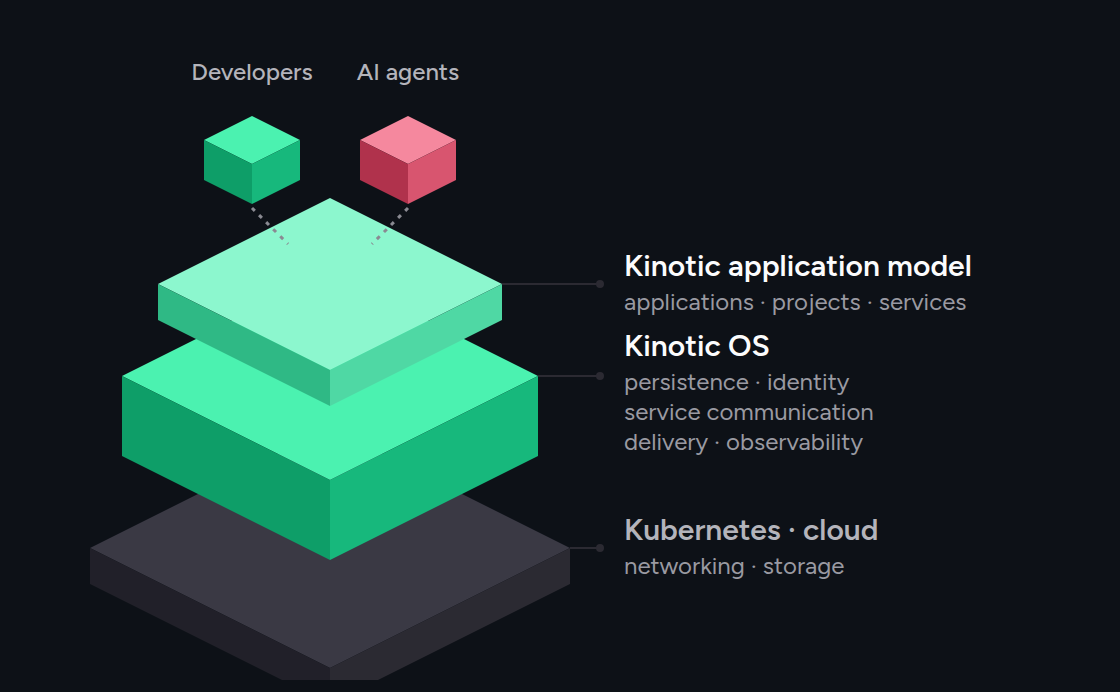
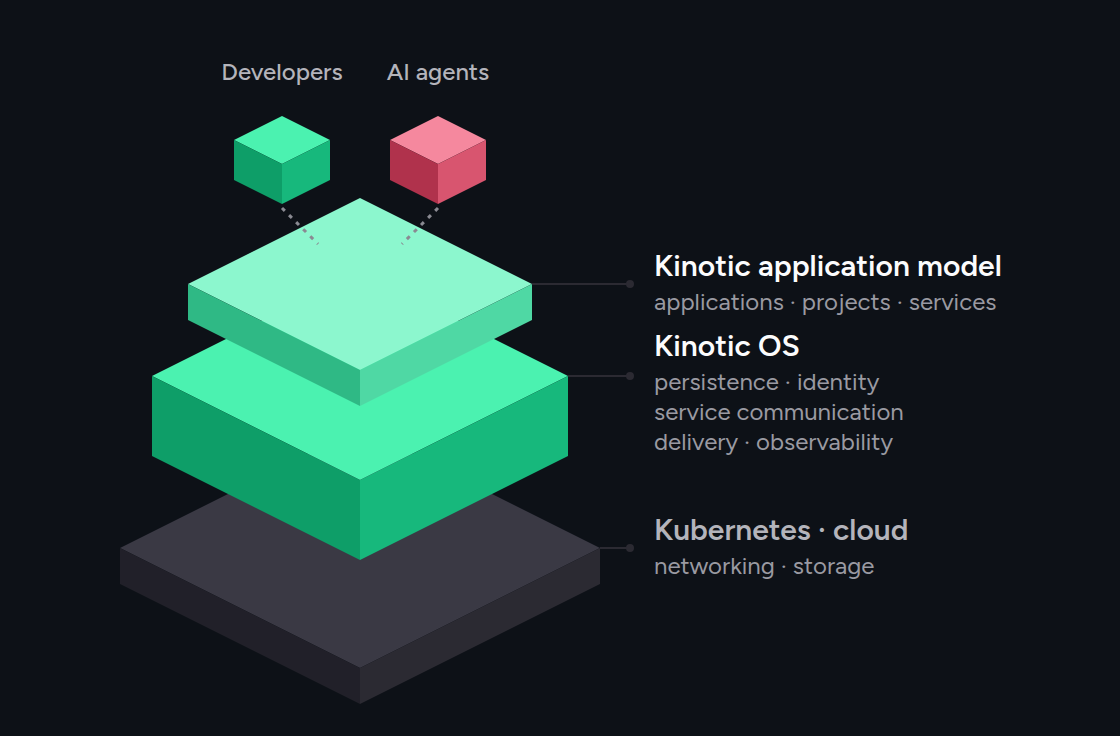
The abstraction layer's ground slab was cropped by its own viewBox
Its bottom vertex sits at y=360 in user units while the wide variant's viewBox
ended at 348, so twelve pixels of the slab were cut. An svg clips to its own
viewport, so the page still measured 322px tall and the DOM height check that
sizes every diagram could not see it.

`render.js` now compares each svg's `getBBox()` against its `viewBox` before
screenshotting and refuses to render when geometry falls outside. Verified by
shrinking a viewBox and watching it fail. It is the only check that can catch
this, and it belongs next to the render rather than in a file of its own.

Both stacks now carry 10px of clearance around the drawing, and all four
svg-based diagrams have their geometry centred in the canvas — the slack was
sitting on one side (the wide stack had 45px left against 74px right), so a
centred image read as shifted left.

Claude-Session: https://claude.ai/code/session_01EvoZVi9sNowJbKd7zzzNvL

Changed region(s): [[0.0625, 0.1517, 0.9062, 1.0], [0.1562, 0.091, 0.4375, 0.1214]]

diff --git a/.github/assets/diagrams/render.js b/.github/assets/diagrams/render.js
@@ -50,6 +50,26 @@ async function main() {
     await send('Emulation.setDeviceMetricsOverride',
       { width: job.w, height: job.h, deviceScaleFactor: 1, mobile: false });
     await sleep(900);
+    // An svg clips to its viewport, so geometry outside the viewBox is cropped at full
+    // declared height and no DOM measurement can see it. Compare the two directly.
+    const clipped = await send('Runtime.evaluate', {
+      returnByValue: true,
+      expression: `[...document.querySelectorAll('svg[viewBox]')]
+        .filter(s => s.getAttribute('aria-hidden') !== 'true')
+        .flatMap(s => {
+          const vb = s.getAttribute('viewBox').split(/\\s+/).map(Number);
+          const b = s.getBBox();
+          return Object.entries({
+            top: vb[1] - b.y,
+            bottom: (b.y + b.height) - (vb[1] + vb[3]),
+            left: vb[0] - b.x,
+            right: (b.x + b.width) - (vb[0] + vb[2]),
+          }).filter(([, v]) => v > 0.5).map(([k, v]) => k + ' by ' + Math.round(v) + 'px');
+        }).join(', ')`,
+    });
+    if (clipped.result.value) {
+      throw new Error(`${job.html}: geometry outside the viewBox — ${clipped.result.value}`);
+    }
     const shot = await send('Page.captureScreenshot', {
       format: 'png',
       captureBeyondViewport: true,

diff --git a/.github/assets/diagrams/diagrams.py b/.github/assets/diagrams/diagrams.py
@@ -75,7 +75,7 @@ def abstraction_layer(t):
         f'<path d="M {x} {y} L 232 {y}" stroke="{t["line"]}" stroke-width="1"/>'
         f'<circle cx="232" cy="{y}" r="2" fill="{t["line"]}"/>'
         for x, y in ((184, 135), (199, 175), (212, 250)))
-    svg = (f'<svg width="440" height="292" viewBox="0 30 440 292" role="img" '
+    svg = (f'<svg width="440" height="302" viewBox="-5 23 440 302" role="img" '
            f'aria-label="Developers and AI agents work through the Kinotic application model, '
            f'which sits on Kinotic OS, which sits on Kubernetes, cloud, networking and storage">'
            f'{leaders}{g}{feed}'
@@ -90,7 +90,7 @@ def abstraction_layer(t):
            f'<text x="244" y="246" class="t-name-dim">Kubernetes · cloud</text>'
            f'<text x="244" y="263" class="t-sub">networking · storage</text>'
            f'</svg>')
-    return f'<div class="d" style="width:440px;height:316px">{svg}</div>'
+    return f'<div class="d" style="width:440px;height:326px">{svg}</div>'
 
 # ---------------------------------------------------------------- diagram 2
 
@@ -126,7 +126,7 @@ def environments(t):
             f'<path d="M 30 138 L 30 256" stroke="{t["rail"]}" stroke-width="1.5"/>'
             f'<path d="M 30 264 l -3.5 -8 h 7 z" fill="{t["rail"]}"/>')
     promote = ''.join(f'<text x="64" y="{y}" class="t-cap-up">promote</text>' for y in (180, 236))
-    svg = (f'<svg width="300" height="280" viewBox="0 8 300 280" role="img" '
+    svg = (f'<svg width="300" height="280" viewBox="-37 8 300 280" role="img" '
            f'aria-label="A feature branch gets an isolated environment that is built and tested, '
            f'then promoted through development, staging and production">'
            f'{line}{ring(24)}{ring(76)}{cubes}'
@@ -212,7 +212,7 @@ def w_abstraction_layer(t):
         f'<path d="M {x} {y} L 300 {y}" stroke="{t["line"]}" stroke-width="1"/>'
         f'<circle cx="300" cy="{y}" r="2" fill="{t["line"]}"/>'
         for x, y in ((251, 150), (269, 196), (285, 282)))
-    svg = (f'<svg width="560" height="322" viewBox="0 26 560 322" role="img" '
+    svg = (f'<svg width="560" height="344" viewBox="-15 26 560 344" role="img" '
            f'aria-label="Developers and AI agents work through the Kinotic application model, '
            f'which sits on Kinotic OS, which sits on Kubernetes, cloud, networking and storage">'
            f'{leaders}{g}{feed}'
@@ -227,7 +227,7 @@ def w_abstraction_layer(t):
            f'<text x="312" y="278" class="t-name-dim">Kubernetes · cloud</text>'
            f'<text x="312" y="295" class="t-sub">networking · storage</text>'
            f'</svg>')
-    return f'<div class="d" style="width:560px;height:346px">{svg}</div>'
+    return f'<div class="d" style="width:560px;height:368px">{svg}</div>'
 
 
 def w_core_concepts(t):
@@ -258,7 +258,7 @@ def w_environments(t):
     drop = (f'<path d="M 232 4 C 232 70 150 64 150 122" fill="none" stroke="{t["mintEdge"]}" '
             f'stroke-width="1.5" stroke-dasharray="4 4"/>'
             f'<path d="M 150 131 l -4 -8 h 8 z" fill="{t["mintEdge"]}"/>')
-    svg = (f'<svg width="620" height="214" viewBox="0 0 620 214" role="img" '
+    svg = (f'<svg width="620" height="214" viewBox="29 0 620 214" role="img" '
            f'aria-label="A feature branch gets an isolated environment that is built and tested, '
            f'then promoted through development, staging and production">'
            f'{drop}{rail}{cubes}{names}{promote}</svg>')
@@ -432,7 +432,7 @@ border-radius:8px;padding:8px 12px;background:{t['chip']};width:100%;text-align:
 # key, title, narrow (fn, w, h), wide (fn, w, h)
 SPECS = [
     ('abstraction-layer', 'A different abstraction layer',
-     (abstraction_layer, 440, 316), (w_abstraction_layer, 560, 346)),
+     (abstraction_layer, 440, 326), (w_abstraction_layer, 560, 368)),
     ('core-concepts', 'Core concepts',
      (core_concepts, 440, 280), (w_core_concepts, 620, 202)),
     ('environments', 'CI/CD environments',

diff --git a/.github/assets/README.md b/.github/assets/README.md
@@ -32,6 +32,12 @@ node render.js        # screenshots them at 2x into the PNGs beside it
 `render.js` finds Chromium through `CHROME`, then `PLAYWRIGHT_BROWSERS_PATH`, then the usual
 system locations. `build/` is scratch and is not committed.
 
+Before it screenshots a page, `render.js` compares each `<svg>`'s `getBBox()` against its
+`viewBox` and refuses to render if any geometry falls outside. An svg clips to its own
+viewport, so a slab drawn past the bottom edge is cropped silently at the full declared
+height — the page measures correctly and the PNG is wrong. That is how the abstraction
+layer shipped with 12px of its ground slab missing.
+
 ### Why the narrow variant renders at 3x and the wide one at 2x
 
 Each is rendered at the density the screen it lands on actually asks for:
